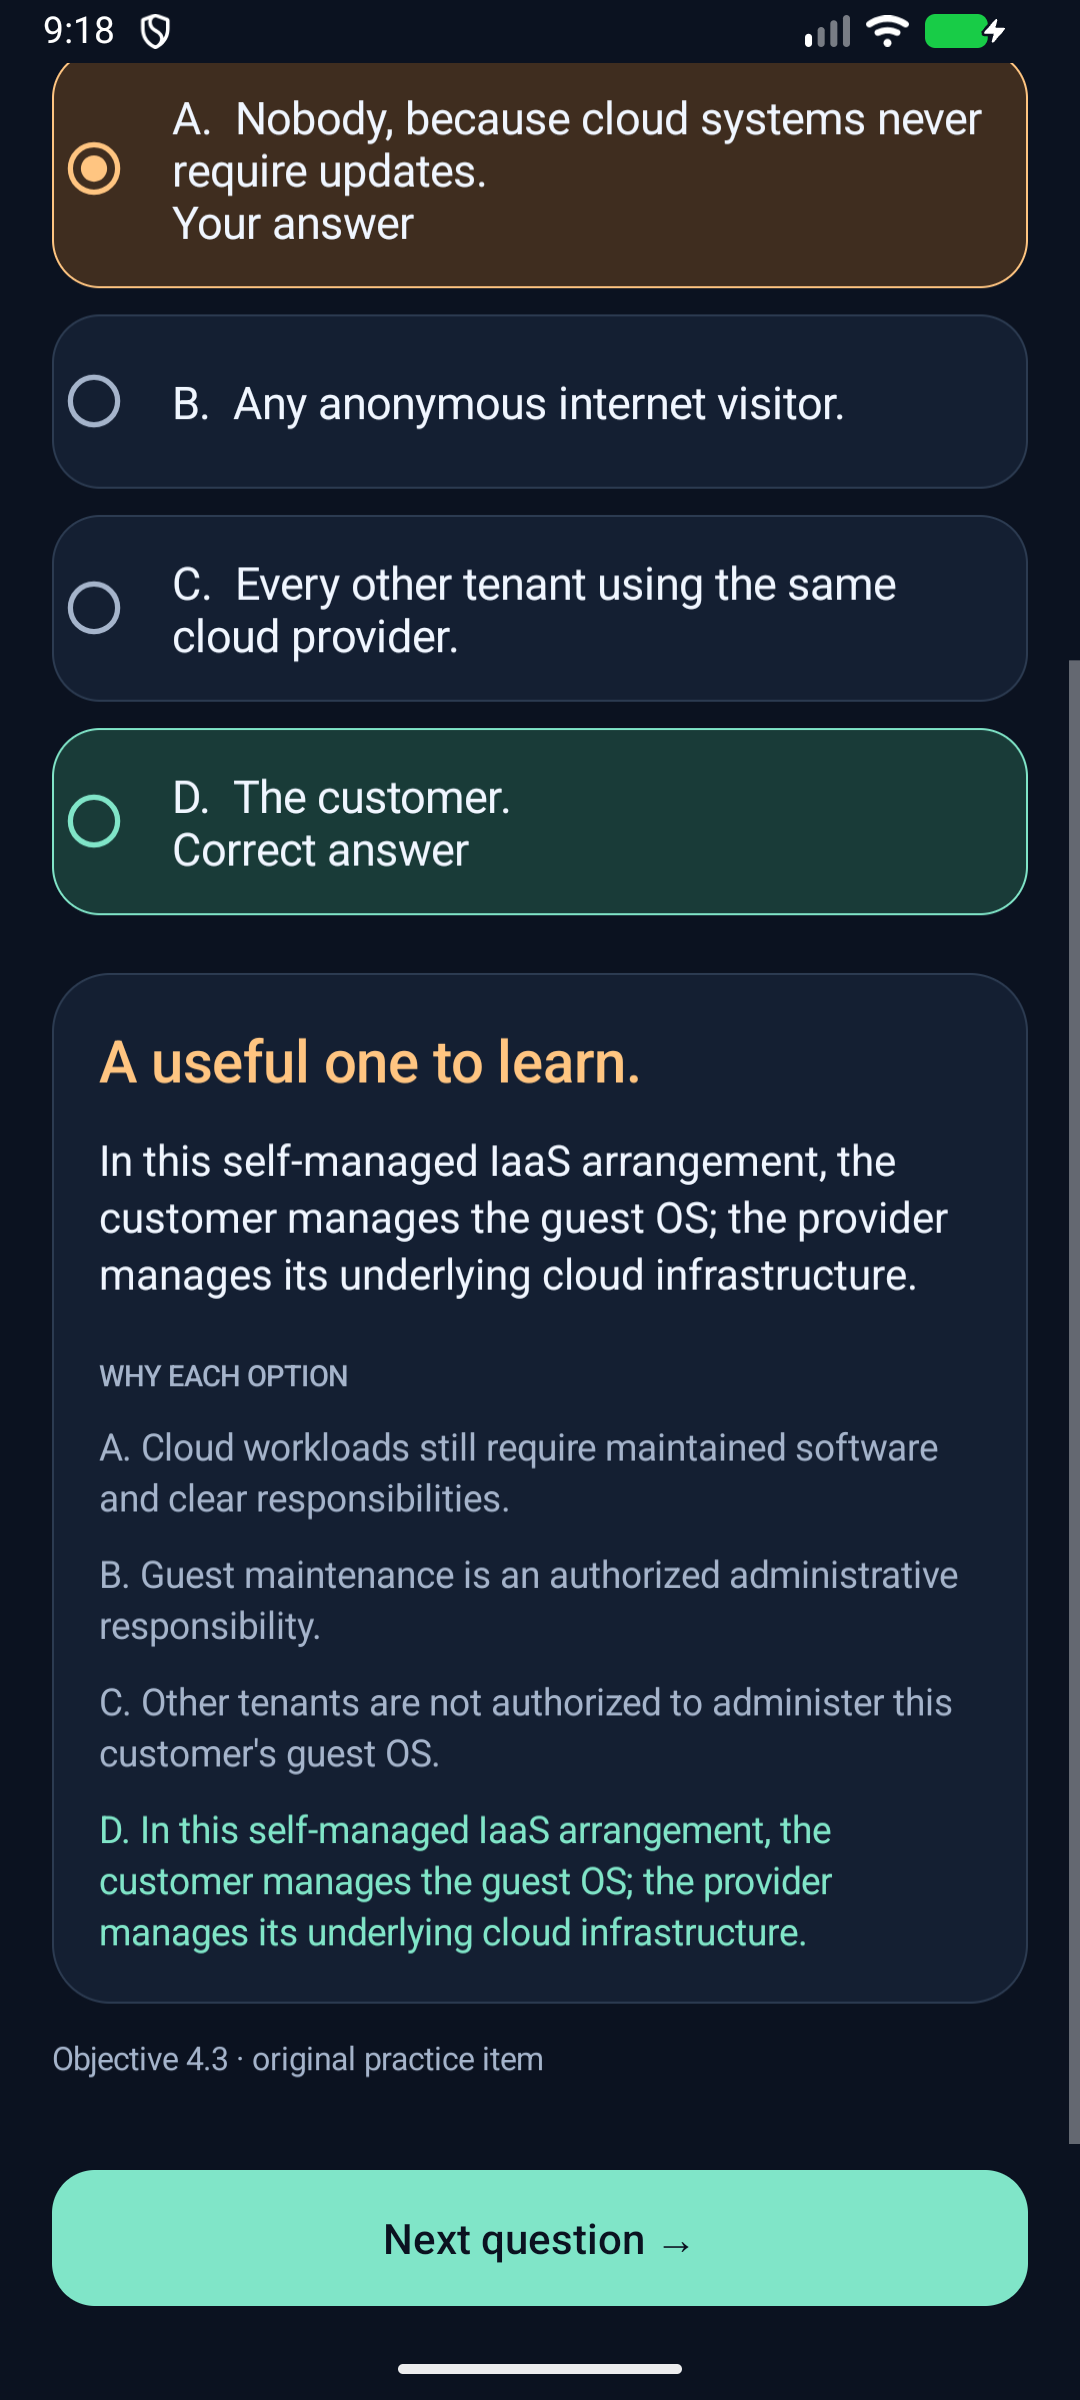
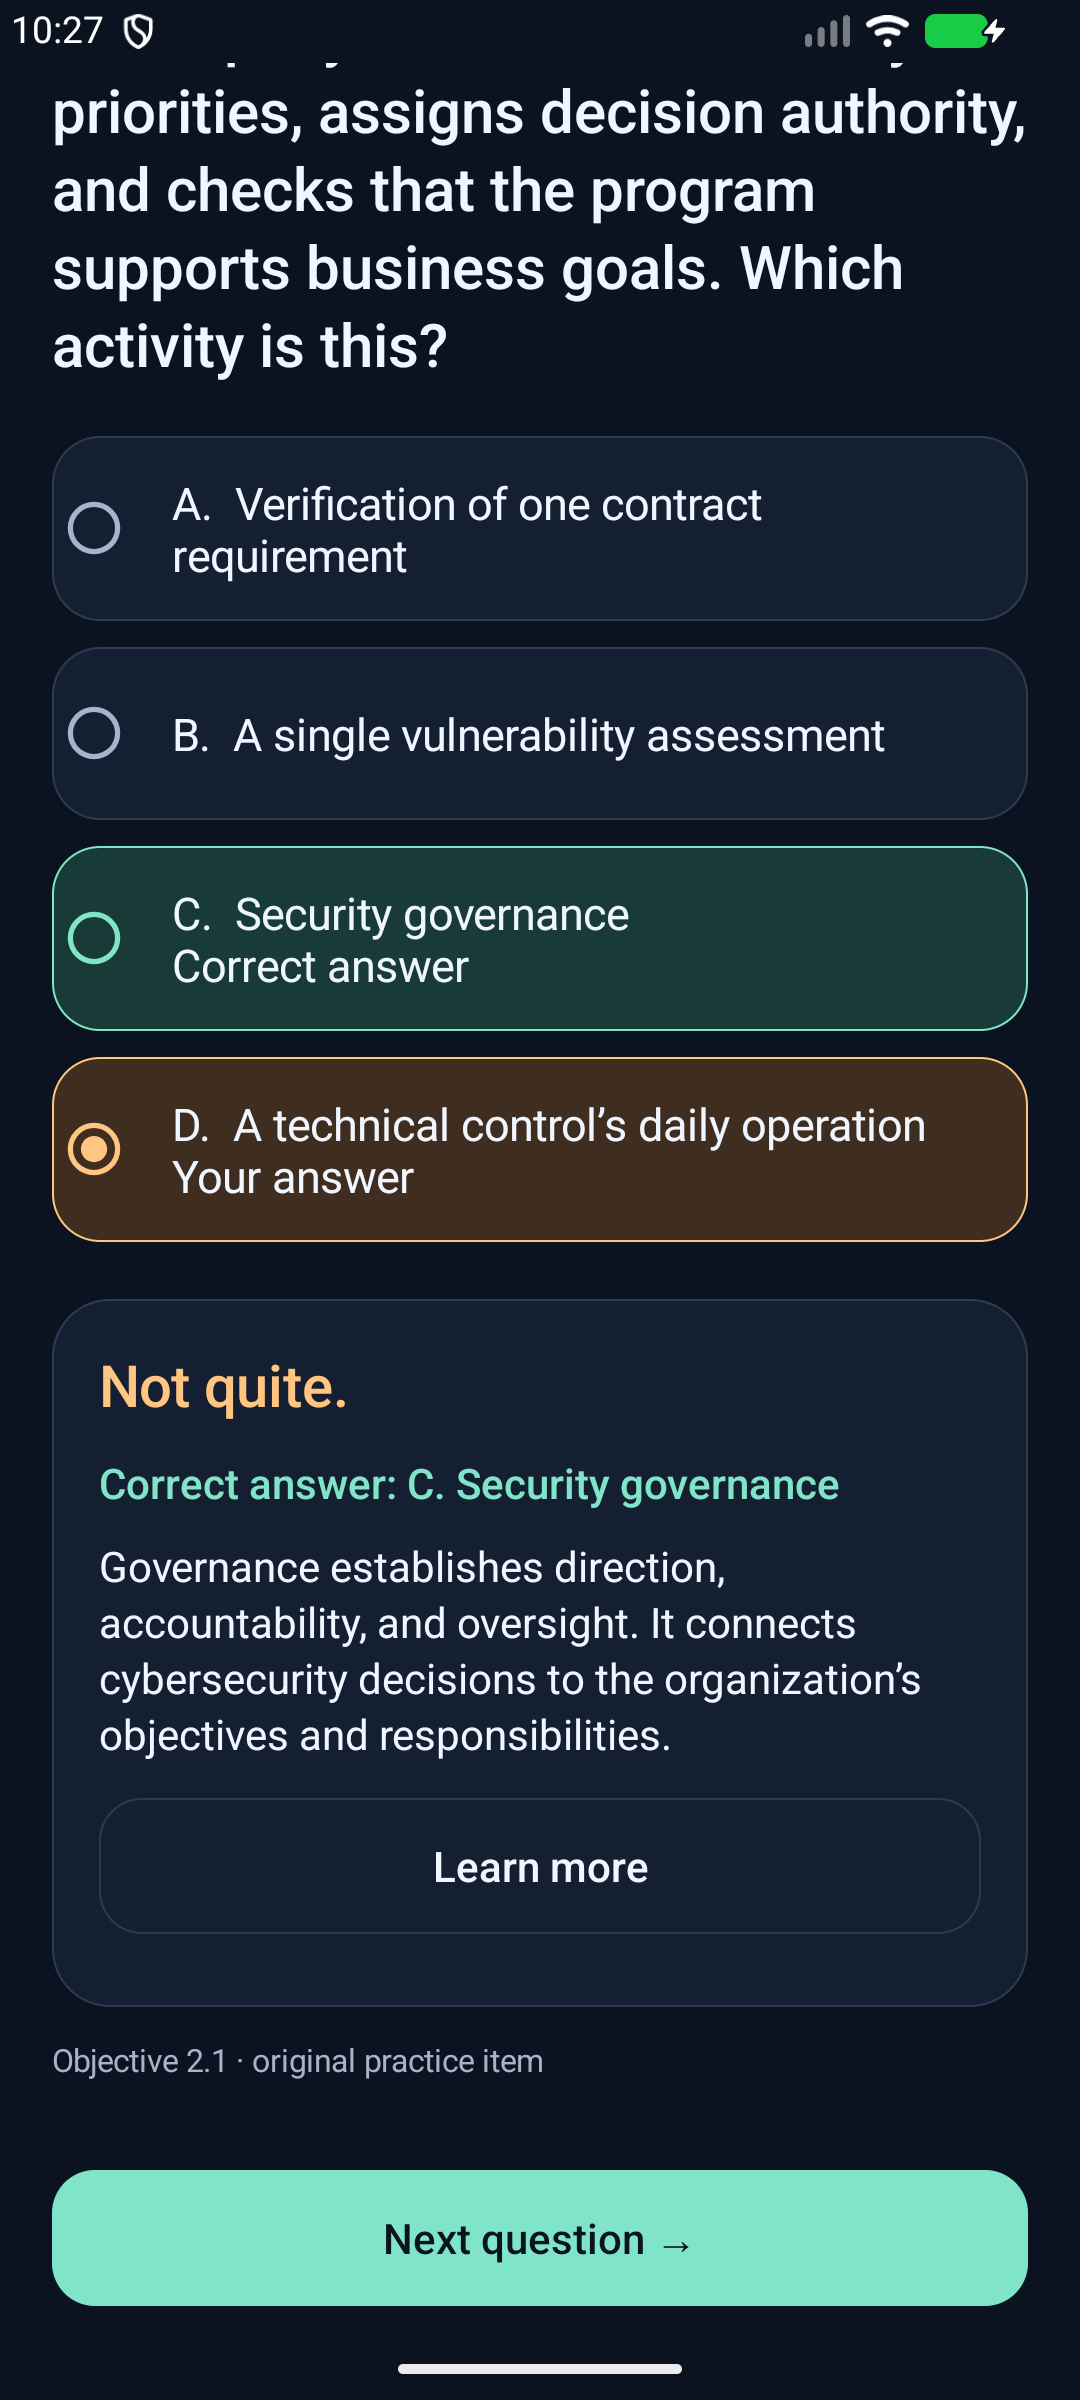
Release CC Study 1.0.1 with simpler answer feedback

diff --git a/README.md b/README.md
@@ -6,7 +6,7 @@
 
 An independent, offline Android study app for Certified in Cybersecurity.
 
-**[Download for Android · 2.97 MB](https://github.com/HumanMeatSack/cc-study/releases/download/v1.0.0-beta.1/CC-Study-1.0.apk)** · [Install guide](INSTALL.md) · [Release page](https://github.com/HumanMeatSack/cc-study/releases/tag/v1.0.0-beta.1)
+**[Download for Android · 2.98 MB](https://github.com/HumanMeatSack/cc-study/releases/download/v1.0.1-beta.1/CC-Study-1.0.1.apk)** · [Install guide](INSTALL.md) · [Release page](https://github.com/HumanMeatSack/cc-study/releases/tag/v1.0.1-beta.1)
 
 Android 12+ · 160 original questions · Five domains · Free beta
 
@@ -15,7 +15,8 @@ Android 12+ · 160 original questions · Five domains · Free beta
 ## Practice at your pace
 
 - **Keep going:** shuffled questions, topic focus, and extra practice on weaker areas.
-- **Understand the answer:** explanations for the correct choice and every alternative.
+- **Keep moving:** correct answers show a brief confirmation and wait for Next.
+- **Learn from a miss:** wrong answers show the correct choice and a short explanation; Learn more reveals the other choices’ rationales.
 - **Review mistakes:** return to questions whose most recent answer was incorrect.
 - **Pick up later:** your current question, selected answer and progress are saved locally.
 - **Study offline:** no account, AI download or background connection needed.
@@ -26,21 +27,21 @@ The 160-item starter bank follows the [CC outline effective September 1, 2026](h
 
 <p align="center">
   <img src="screenshots/home.png" width="240" alt="CC Study home with practice and review controls">
-  <img src="screenshots/practice.png" width="240" alt="A multiple-choice practice question">
-  <img src="screenshots/explanations.png" width="240" alt="Explanations for the answer and each alternative">
+  <img src="screenshots/correct.png" width="240" alt="Correct answer confirmation with manual Next question">
+  <img src="screenshots/explanations.png" width="240" alt="A missed answer with a short explanation and optional Learn more">
 </p>
 
 Screenshots show synthetic practice data on an Android emulator.
 
 ## Install
 
-1. Open the **[APK download](https://github.com/HumanMeatSack/cc-study/releases/download/v1.0.0-beta.1/CC-Study-1.0.apk)** on your Android phone.
+1. Open the **[APK download](https://github.com/HumanMeatSack/cc-study/releases/download/v1.0.1-beta.1/CC-Study-1.0.1.apk)** on your Android phone.
 2. Open the finished download and choose **Install**, then **Open**. Android may ask you to allow installation from that browser.
 3. Tap **Start endless practice**, choose an answer, then **Check answer**.
 
 Download the `.apk` file. GitHub's automatically generated “Source code” ZIP contains this download repository's documentation, not an installable app.
 
-For the APK together with installation notes and third-party license texts, use the [complete package](https://github.com/HumanMeatSack/cc-study/releases/download/v1.0.0-beta.1/CC-Study-1.0-package.zip). [Checksums](https://github.com/HumanMeatSack/cc-study/releases/download/v1.0.0-beta.1/SHA256SUMS.txt) and [third-party notices](https://github.com/HumanMeatSack/cc-study/releases/download/v1.0.0-beta.1/THIRD_PARTY_NOTICES.txt) are provided alongside the downloads.
+For the APK together with installation notes and third-party license texts, use the [complete package](https://github.com/HumanMeatSack/cc-study/releases/download/v1.0.1-beta.1/CC-Study-1.0.1-package.zip). [Checksums](https://github.com/HumanMeatSack/cc-study/releases/download/v1.0.1-beta.1/SHA256SUMS.txt) and [third-party notices](https://github.com/HumanMeatSack/cc-study/releases/download/v1.0.1-beta.1/THIRD_PARTY_NOTICES.txt) are provided alongside the downloads.
 
 ## Privacy
 
@@ -50,7 +51,7 @@ Practice progress is stored on the phone. This build requests no Android permiss
 
 This is the initial personal-study beta: English, single-answer questions and a curated starter bank. It is AI-assisted educational material, not recalled exam content. Please report confusing questions, suspected errors and usability problems through [GitHub Issues](https://github.com/HumanMeatSack/cc-study/issues). Include the objective/question wording and omit personal information.
 
-The build passed 25 automated tests; the exact APK passed an Android 16 emulator flow covering answers, explanations, navigation and restart persistence. The owner also reported successful use on a Galaxy S24 Ultra. This does not establish compatibility on every Android device.
+The 1.0.1 build passed 26 automated tests and Android lint with no errors. The exact APK passed Android 16 emulator upgrade, answer-flow and restart checks, including preserved study progress. The owner reported successful Galaxy S24 Ultra use of version 1.0; the 1.0.1 update has not yet been verified on that handset. This does not establish compatibility on every Android device.
 
 This beta is debug-signed for early feedback and has no automatic updater. Install a matching signed update over the existing app to keep progress; uninstalling clears it. A future production distribution may need a separate migration/signing plan. See [install and update details](INSTALL.md).
 

diff --git a/INSTALL.md b/INSTALL.md
@@ -1,12 +1,12 @@
-# Install CC Study 1.0 beta
+# Install CC Study 1.0.1 beta
 
 Requires Android 12 or newer. This is an Android APK and does not run on iPhone.
 
-1. Open https://github.com/HumanMeatSack/cc-study/releases/download/v1.0.0-beta.1/CC-Study-1.0.apk on the Android phone.
-2. Wait for the download to finish, then open `CC-Study-1.0.apk` from the browser's Downloads.
+1. Open https://github.com/HumanMeatSack/cc-study/releases/download/v1.0.1-beta.1/CC-Study-1.0.1.apk on the Android phone.
+2. Wait for the download to finish, then open `CC-Study-1.0.1.apk` from the browser's Downloads.
 3. If Android asks, allow installation from the browser used for this download.
 4. Choose Install, then Open.
-5. Tap Start endless practice, select one answer, and tap Check answer. Read the explanation, then Next question.
+5. Tap Start endless practice, select one answer, and tap Check answer. Correct answers show Correct!; press Next question when ready. Wrong answers show the correct choice and a short explanation; Learn more expands details and Show less collapses them. Press Next question to continue. Neither outcome advances automatically.
 
 The app works offline after installation. Your progress and current question remain saved when you close and reopen it; choose Continue your question. Review missed questions returns items whose latest answer was wrong.
 
@@ -14,10 +14,10 @@ The app works offline after installation. Your progress and current question rem
 
 Install future APKs with the same package and signing identity over the existing app. Do not uninstall first to apply an update: uninstalling deletes saved progress. If Android reports a signing conflict, stop and report it instead of clearing data.
 
-The beta uses package `dev.joe.ccstudy`, version 1.0 / code 1 and an Android debug signing certificate. It is an early test distribution, not a Google Play production release.
+The beta uses package `dev.joe.ccstudy`, version 1.0.1 / code 2 and an Android debug signing certificate. It is an early test distribution, not a Google Play production release.
 
-APK bytes: 2,974,160
-APK SHA-256: 2440ee2ee876b583fae0e70b151ab6d5267867c1796256e369c168bc0a86e8b3
+APK bytes: 2,977,728
+APK SHA-256: a5ef94a36b9198e352c74b65568b3ee4e457c7baf6c5c6f9f4936a9fac31d719
 Signing-certificate SHA-256: 6f3005b7db8b80d5e6b83b4bdccc4bc4f435e465b68ba0adfc05fba1fd01b45b
 
 GitHub release assets include third-party notices, checksums and an optional complete ZIP package. The repository's automatic Source code ZIP is documentation only.

diff --git a/CHANGELOG.md b/CHANGELOG.md
@@ -1,5 +1,15 @@
 # Release notes
 
+## 1.0.1 beta 1 — November 23, 2026
+
+- Correct answers now show **Correct!** without an explanation card full of details.
+- Wrong answers show the correct shuffled choice and a short explanation.
+- **Learn more** expands the three other choices’ rationales; **Show less** collapses them. The correct rationale is no longer repeated.
+- Both outcomes wait for **Next question**; no automatic jump.
+- Existing questions, scheduling, local storage and signing identity are preserved.
+
+Validation: 26 automated tests, 0 failures/errors/skips; Android lint 0 errors, 6 nonblocking warnings. The exact APK passed Android 16 emulator upgrade, correct/wrong feedback, expand/collapse and restart checks; saved study progress survived the update.
+
 ## 1.0 beta 1 — November 23, 2026
 
 - 160 original questions mapped to all 19 objectives across five CC domains.

diff --git a/PRIVACY.md b/PRIVACY.md
@@ -1,6 +1,6 @@
 # CC Study privacy
 
-Applies to CC Study 1.0 beta, November 23, 2026.
+Applies to CC Study 1.0 and 1.0.1 betas, November 23, 2026.
 
 The app stores selected answers, attempt counts, per-question progress and the active question in its own local SQLite database. These records are used to resume practice and choose review questions. No study history is transmitted by the app.
 
